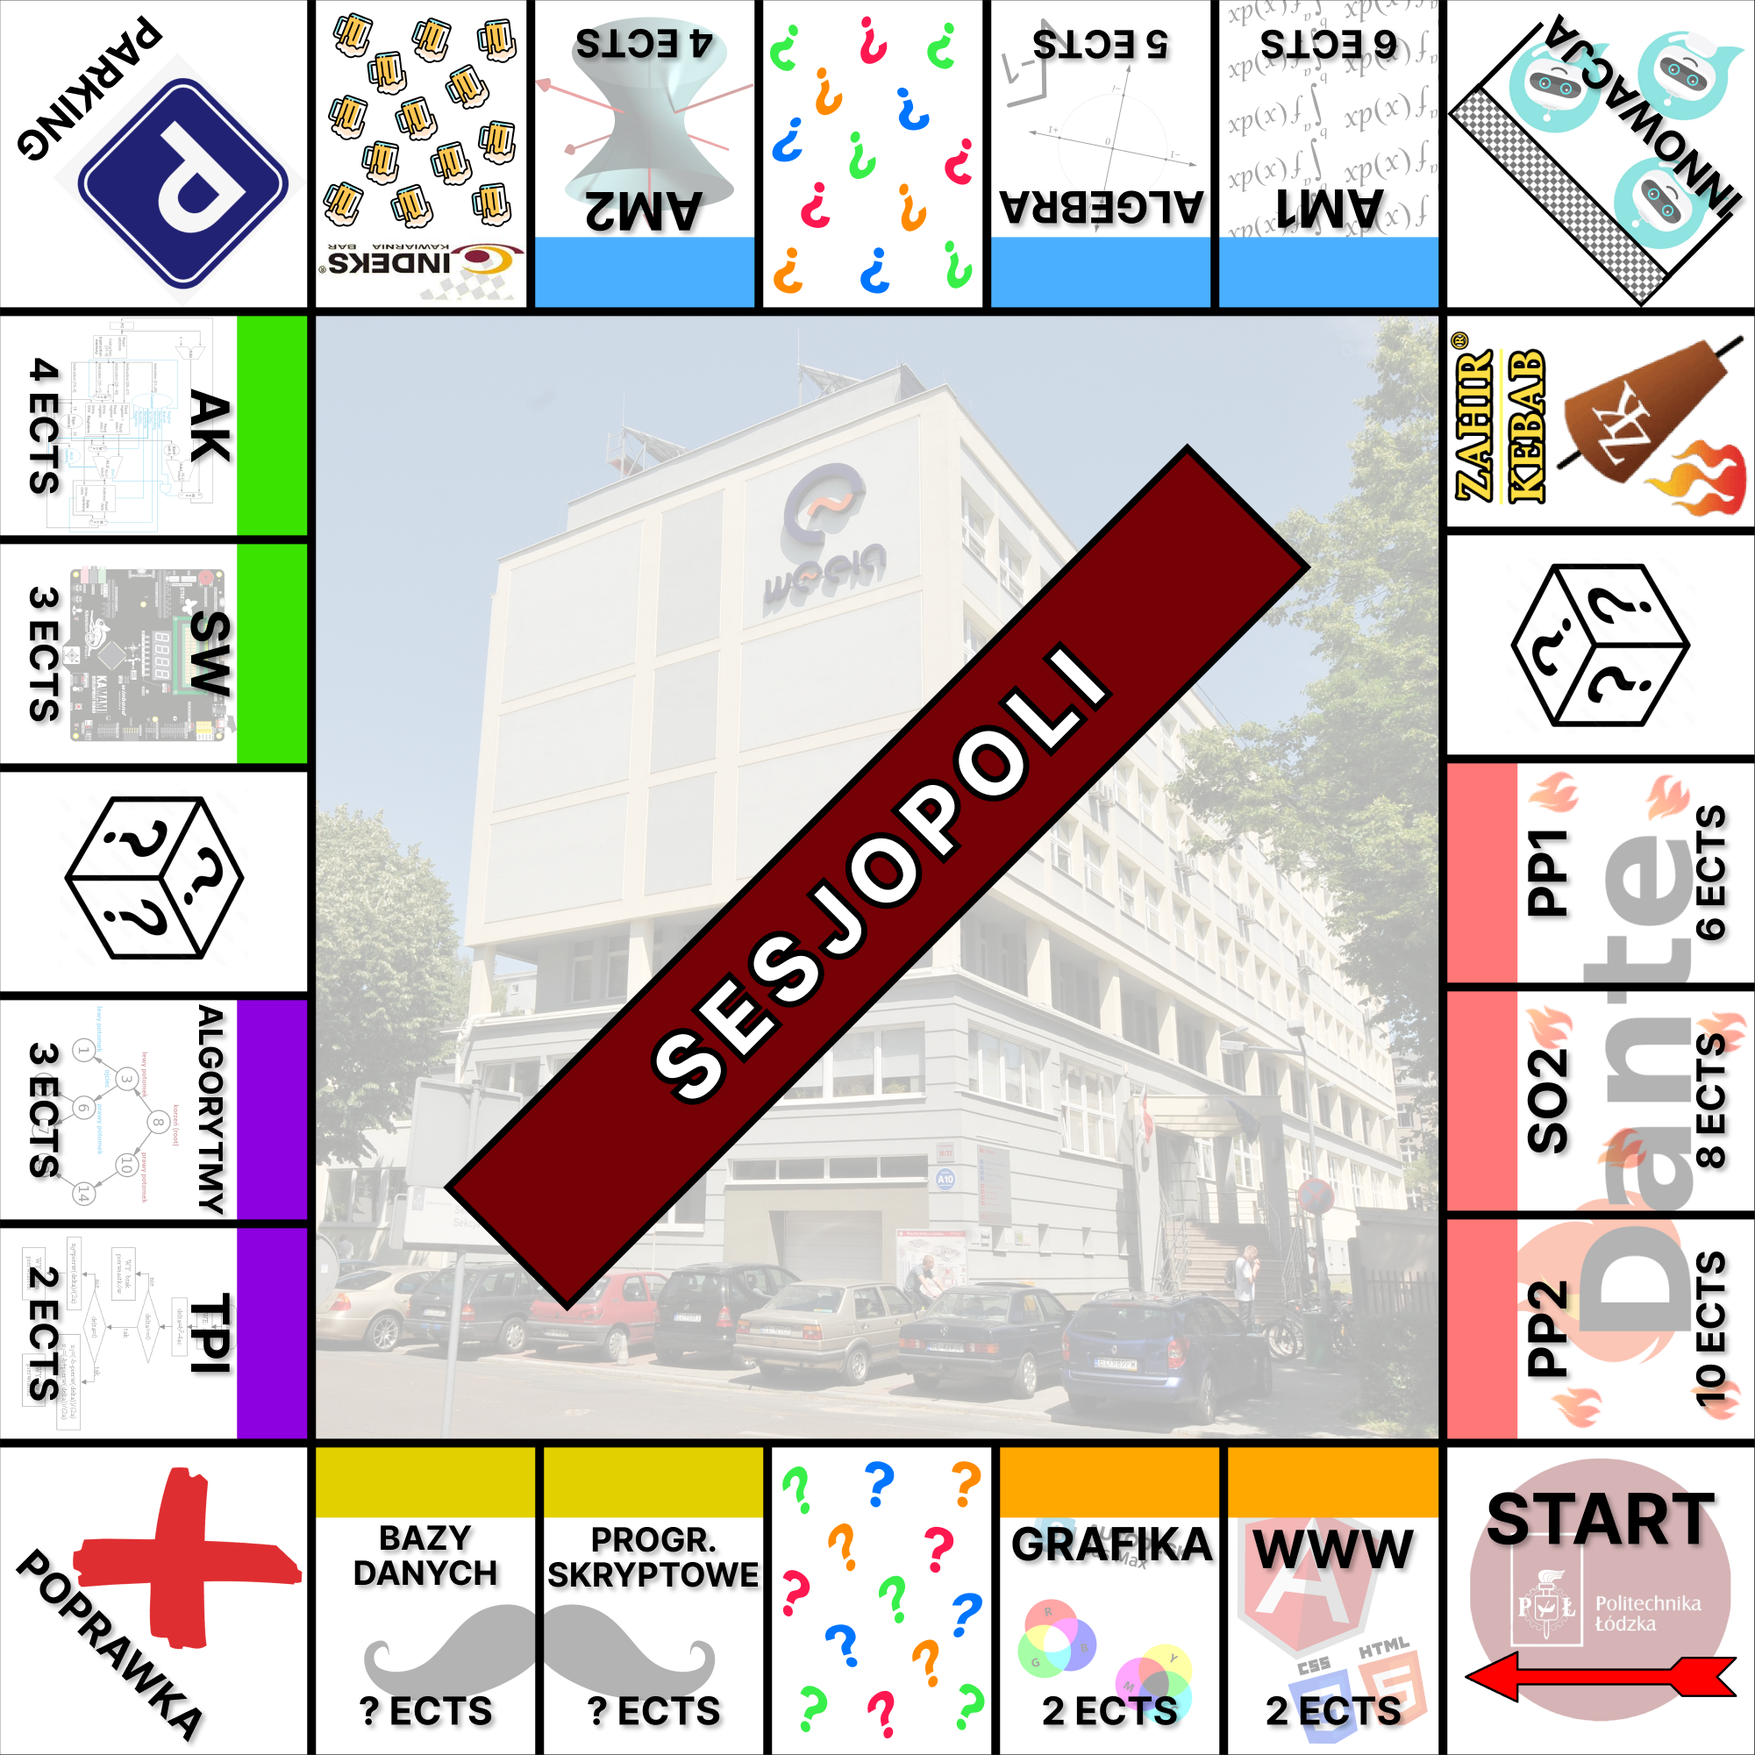
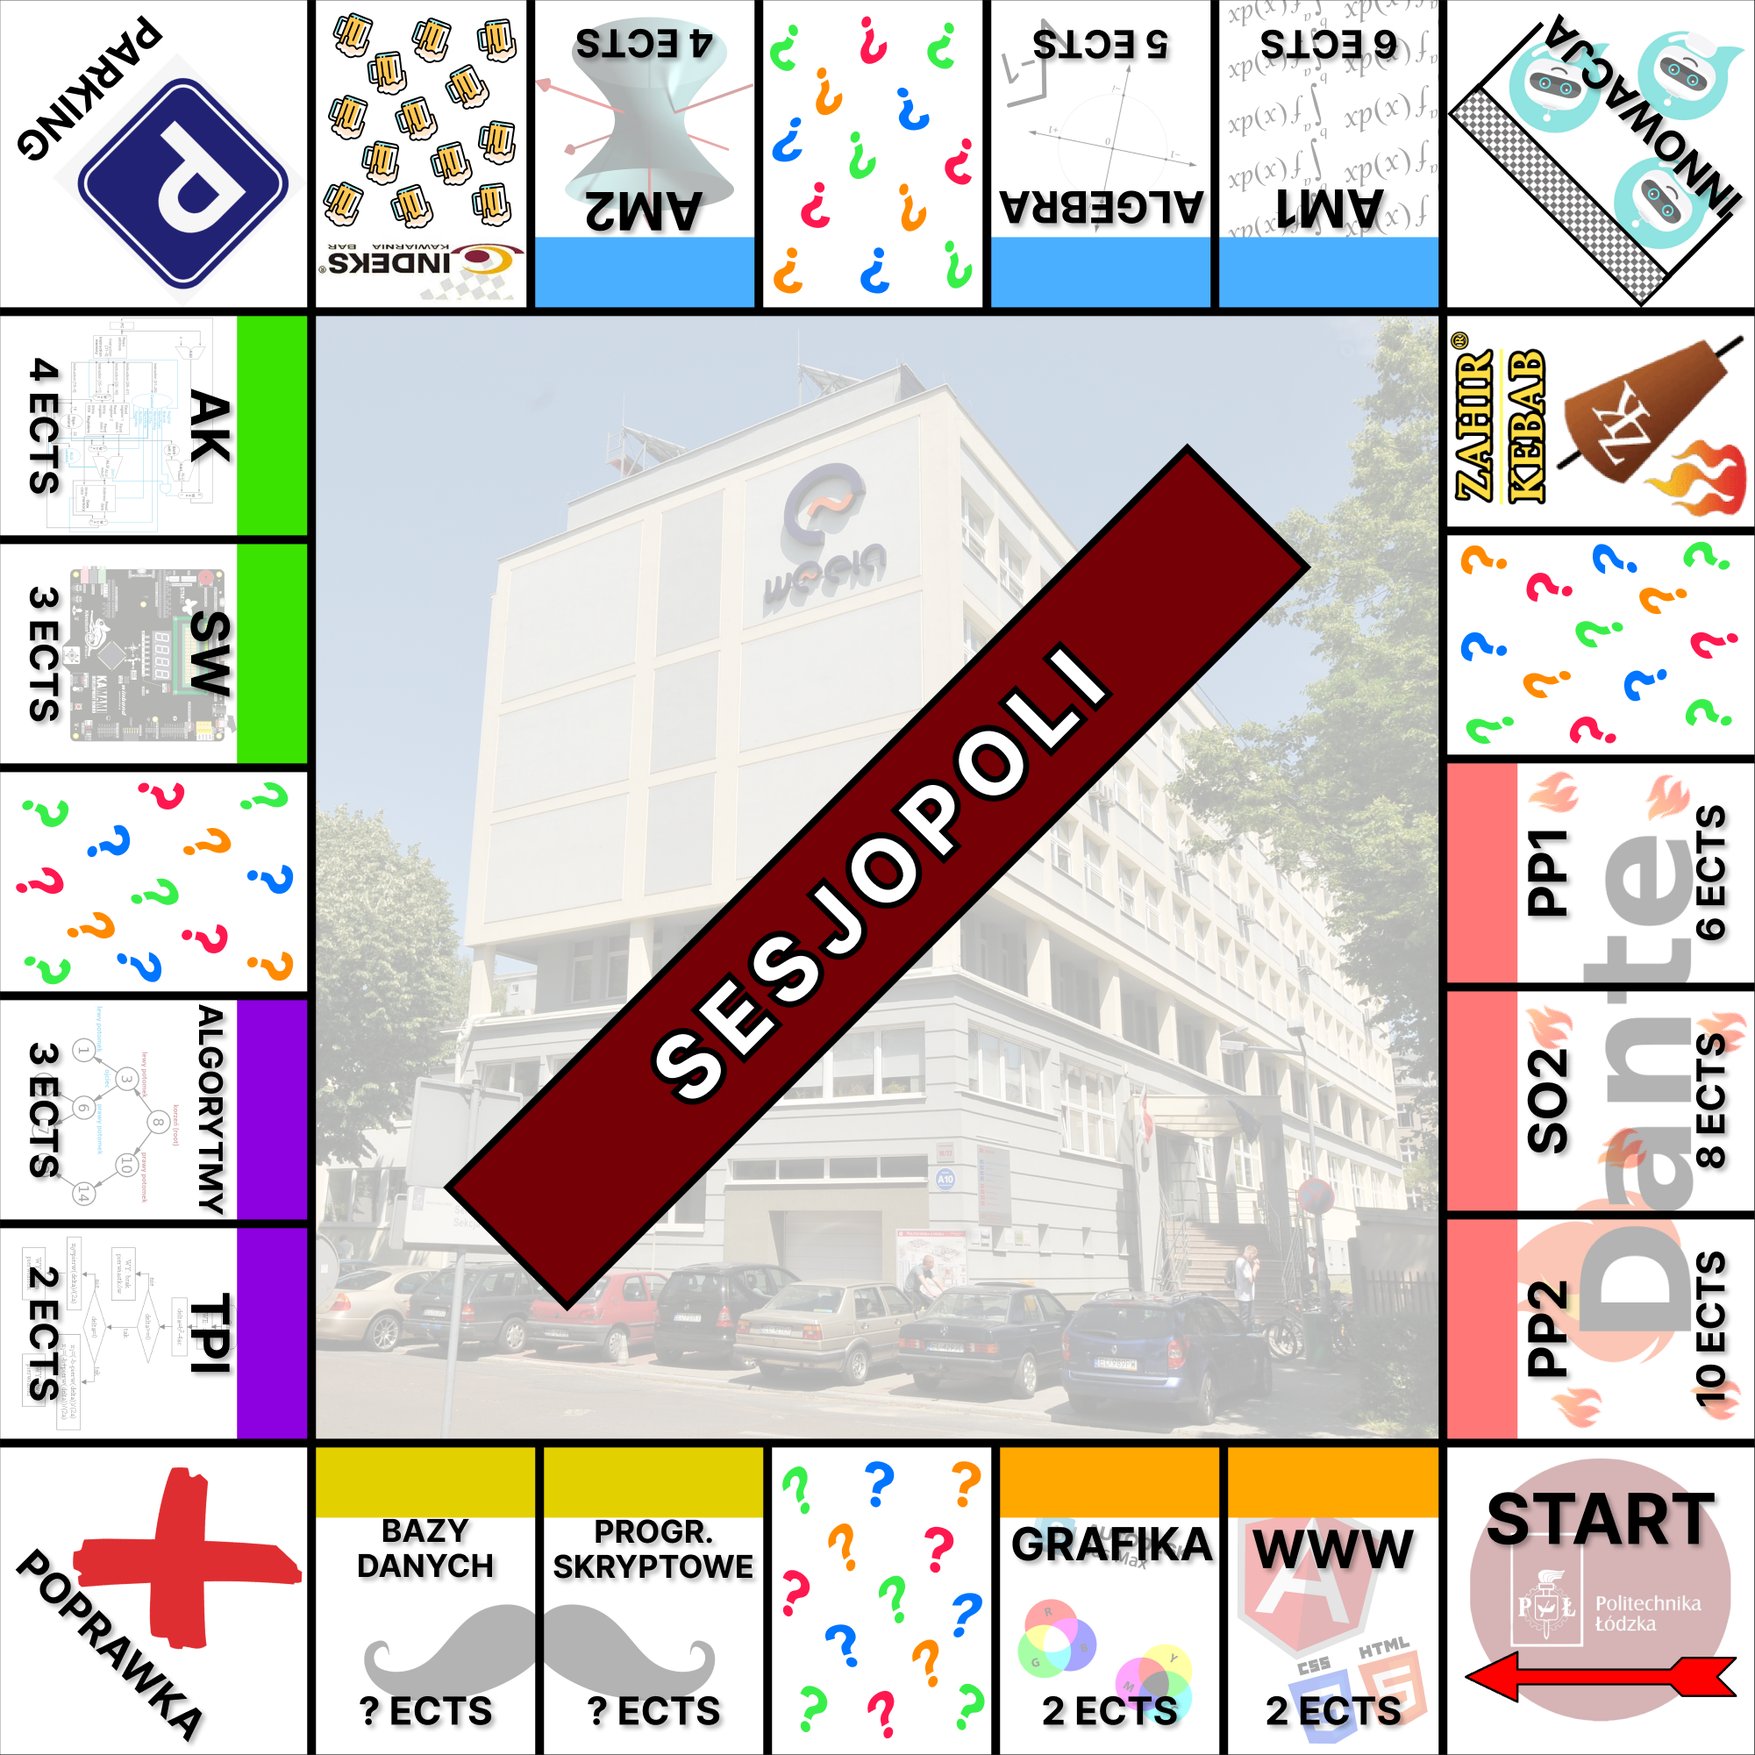
Więcej pytań do quizu, zmiana wyglądu i wyświetlania pionków

diff --git a/src/main/java/com/example/project_sesjopoli/Menu.java b/src/main/java/com/example/project_sesjopoli/Menu.java
@@ -1,6 +1,10 @@
 package com.example.project_sesjopoli;
 
+import com.example.project_sesjopoli.game_objects.Board;
+import com.example.project_sesjopoli.game_objects.Pawn;
 import com.example.project_sesjopoli.post_objects.PostObjectForSettingName;
+import com.google.gson.Gson;
+import com.google.gson.reflect.TypeToken;
 import javafx.event.ActionEvent;
 import javafx.event.EventHandler;
 import javafx.fxml.FXMLLoader;
@@ -15,7 +19,14 @@ import javafx.scene.text.FontWeight;
 import javafx.stage.Stage;
 import org.springframework.web.client.RestTemplate;
 
+import java.io.BufferedReader;
 import java.io.IOException;
+import java.io.InputStreamReader;
+import java.lang.reflect.Type;
+import java.net.HttpURLConnection;
+import java.net.URL;
+import java.util.ArrayList;
+import java.util.HashMap;
 
 import static com.example.project_sesjopoli.GameController.LINK;
 
@@ -26,17 +37,19 @@ public class Menu extends AnchorPane {
     private Button playButton;
     private Button exitButton;
     private TextField nameInput;
-    private final int playerId;
+    private GameController controller;
+    private Board board;
 
-    Menu(Stage primaryStage, Scene gameScene, int id) throws IOException {
+    Menu(Stage primaryStage, Scene gameScene, GameController controller, Board board) throws IOException {
         this.setStyle("-fx-background-color: rgb(121, 9, 15)");
+        this.controller = controller;
+        this.board = board;
         initInfo();
         initError();
         initNameInput();
         initPlayButton(primaryStage, gameScene);
         initExitButton(primaryStage);
         insertAllIntoPane();
-        this.playerId = id;
     }
 
     private void insertAllIntoPane() {
@@ -71,6 +84,24 @@ public class Menu extends AnchorPane {
                 error.setText("Nie wpisałeś imienia !!!");
             }
             else{
+                try {
+                    String endpointUrl = LINK + "/getplayerid";
+                    URL url = new URL(endpointUrl);
+                    HttpURLConnection connection = (HttpURLConnection) url.openConnection();
+                    connection.setRequestMethod("GET");
+                    BufferedReader reader = new BufferedReader(new InputStreamReader(connection.getInputStream()));
+                    Type collectionType = new TypeToken<Integer>() {
+                    }.getType();
+                    Gson gson = new Gson();
+                    int playerId = gson.fromJson(reader, collectionType);
+                    controller.setPlayerId(playerId);
+                    controller.initThreads();
+                } catch (Exception ex) {
+                    ex.printStackTrace();
+                    System.out.println(ex.getMessage());
+                    controller.setPlayerId(-1);
+                }
+                controller.getSideScreen().sendPawnInfo(controller, board.getPawns().get(controller.getPlayerId() - 1));
                 sendNameToServer();
                 primaryStage.setScene(gameScene);
             }
@@ -107,7 +138,7 @@ public class Menu extends AnchorPane {
     }
     private void sendNameToServer(){
         RestTemplate restTemplate = new RestTemplate();
-        PostObjectForSettingName dataRequest = new PostObjectForSettingName(playerId,nameInput.getText());
+        PostObjectForSettingName dataRequest = new PostObjectForSettingName(controller.getPlayerId() - 1,nameInput.getText());
         String responseEntity = restTemplate.postForObject(LINK + "/name", dataRequest, String.class);
     }
 }

diff --git a/src/main/java/com/example/project_sesjopoli/GameController.java b/src/main/java/com/example/project_sesjopoli/GameController.java
@@ -20,6 +20,9 @@ import java.util.ArrayList;
 import java.util.HashMap;
 import java.util.Random;
 import java.util.Collections;
+import java.util.concurrent.Executors;
+import java.util.concurrent.ScheduledExecutorService;
+import java.util.concurrent.TimeUnit;
 
 public class GameController {
 
@@ -32,24 +35,36 @@ public class GameController {
     private HashMap<Integer,House> positionsWithHouses;
 
     GameController(SmartGroup boardGroup, Board board) {
-        try {
-            String endpointUrl = LINK + "/getplayerid";
-            URL url = new URL(endpointUrl);
-            HttpURLConnection connection = (HttpURLConnection) url.openConnection();
-            connection.setRequestMethod("GET");
-            BufferedReader reader = new BufferedReader(new InputStreamReader(connection.getInputStream()));
-            Type collectionType = new TypeToken<Integer>() {
-            }.getType();
-            Gson gson = new Gson();
-            playerId = gson.fromJson(reader, collectionType);
             this.board = board;
             this.boardGroup = boardGroup;
             this.positionsWithHouses = new HashMap<>();
-        } catch (Exception ex) {
-            ex.printStackTrace();
-            System.out.println(ex.getMessage());
-            playerId = -1;
-        }
+    }
+
+    public void drawPawns(Board board){
+        Platform.runLater(() -> {
+            for (int i = 0; i < board.getPawns().size(); ++i){
+                Field actualField = board.getFields().get(board.getPawns().get(i).getPosition());
+                Point2D cords = actualField.getPlace(board.getPawns().get(i).getPlayerId());
+                board.getPawns().get(i).setTranslateX(cords.getX());
+                board.getPawns().get(i).setTranslateY(cords.getY());
+            }
+        });
+    }
+
+    void initThreads() {
+        ScheduledExecutorService executorService = Executors.newScheduledThreadPool(2);
+
+        executorService.scheduleAtFixedRate(() -> {
+            handleGameState(sideScreen);
+        }, 0, 200, TimeUnit.MILLISECONDS);
+
+        executorService.scheduleAtFixedRate(() -> {
+            drawPawns(board);
+        }, 0, 50, TimeUnit.MILLISECONDS);
+    }
+
+    public void setPlayerId(int playerId) {
+        this.playerId = playerId;
     }
 
     public int getPlayerId() {
@@ -76,6 +91,7 @@ public class GameController {
                     hideOrShowButtons(current.whoseTurn, s);
                     movePawns(current.playerPositions);
                     buildHouse(current.positionOwners);
+                    setPawnsVisible(current.playerId);
                     updateMoneyPanel(current.money, current.names);
                     if (current.playerLostFlags.get(playerId - 1)){
                         sideScreen.displayLooserInfo();
@@ -187,9 +203,20 @@ public class GameController {
             }
         });
     }
+    private void setPawnsVisible(int numberOfPlayers) {
+        Platform.runLater(() -> {
+            for(int i=0;i<numberOfPlayers;++i){
+                board.getPawns().get(i).setVisible(true);
+            }
+        });
+    }
 
     public void setSideScreen(SideScreen sideScreen) {
         this.sideScreen = sideScreen;
+    }
+
+    public SideScreen getSideScreen() {
+        return sideScreen;
     }
 
     public HashMap<Integer, House> getPositionsWithHouses() {

diff --git a/src/main/java/com/example/project_sesjopoli/Game.java b/src/main/java/com/example/project_sesjopoli/Game.java
@@ -68,11 +68,11 @@ public class Game extends Application {
         group.rotateByX(DEFAULT_BOARD_ANGLE);
     }
 
-    void initPrimaryStage(Stage primaryStage, Scene scene, int playerId){
+    void initPrimaryStage(Stage primaryStage, Scene scene){
         primaryStage.setOnCloseRequest(event -> {
             System.exit(0);
         });
-        primaryStage.setTitle("SESJOPOLI - " + playerId);
+        primaryStage.setTitle("SESJOPOLI");
         primaryStage.setScene(scene);
         primaryStage.show();
         primaryStage.setResizable(false);
@@ -87,18 +87,6 @@ public class Game extends Application {
     SubScene initSideScene(SideScreen sideScreen) {
         SubScene sideScene = new SubScene(sideScreen, SIDE_SCENE_WIDTH, HEIGHT);
         return sideScene;
-    }
-
-    void initThreads(GameController controller, SideScreen sideScreen, ArrayList<Pawn> pawns, Board board) {
-        ScheduledExecutorService executorService = Executors.newScheduledThreadPool(2);
-
-        executorService.scheduleAtFixedRate(() -> {
-            controller.handleGameState(sideScreen);
-        }, 0, 200, TimeUnit.MILLISECONDS);
-
-        executorService.scheduleAtFixedRate(() -> {
-            drawPawns(board);
-        }, 0, 50, TimeUnit.MILLISECONDS);
     }
 
     void setBoardImage(Rectangle board){
@@ -129,17 +117,6 @@ public class Game extends Application {
         return pawns;
     }
 
-    public void drawPawns(Board board){
-        Platform.runLater(() -> {
-            for (int i = 0; i < board.getPawns().size(); ++i){
-                Field actualField = board.getFields().get(board.getPawns().get(i).getPosition());
-                Point2D cords = actualField.getPlace(board.getPawns().get(i).getPlayerId());
-                board.getPawns().get(i).setTranslateX(cords.getX());
-                board.getPawns().get(i).setTranslateY(cords.getY());
-            }
-        });
-    }
-
     @Override
     public void start(Stage primaryStage) throws Exception {
 
@@ -154,7 +131,7 @@ public class Game extends Application {
         Camera camera = new CameraFactory().initCamera();
 
         BorderPane wholeScreen = new BorderPane();
-        SideScreen sideScreen = new SideScreen(controller, pawns.get(controller.getPlayerId() - 1), board);
+        SideScreen sideScreen = new SideScreen(controller, board);
         SubScene mainScene = initMainScene(camera, boardGroup);
         SubScene sideScene = initSideScene(sideScreen);
 
@@ -166,14 +143,12 @@ public class Game extends Application {
         wholeScreen.setLeft(mainScene);
         wholeScreen.setRight(sideScene);
 
-        initThreads(controller, sideScreen, pawns, board);
-
         Scene gameScene = new Scene(wholeScreen, WIDTH, HEIGHT);
 
-        Menu menuLayout = new Menu(primaryStage, gameScene, controller.getPlayerId() - 1);
+        Menu menuLayout = new Menu(primaryStage, gameScene, controller, board);
         Scene menuScene = new Scene(menuLayout, WIDTH, HEIGHT);
 
-        initPrimaryStage(primaryStage, menuScene, controller.getPlayerId());
+        initPrimaryStage(primaryStage, menuScene);
     }
 
     public static void main(String[] args) {

diff --git a/src/main/java/com/example/project_sesjopoli/SideScreen.java b/src/main/java/com/example/project_sesjopoli/SideScreen.java
@@ -45,12 +45,11 @@ public class SideScreen extends AnchorPane {
     ArrayList<Button> quizButtons;
     int lastDicedPosition;
 
-    SideScreen(GameController controller, Pawn pawn, Board board){
+    SideScreen(GameController controller, Board board){
         super();
         this.board=board;
         this.moneyInfoLabels =new ArrayList<>();
         initLabelsAndButtons();
-        assignEventHandlers(controller, pawn, board);
 
         this.getChildren().add(isYourTurnLabel);
         this.getChildren().add(infoLabel);
@@ -77,13 +76,17 @@ public class SideScreen extends AnchorPane {
         });
     }
 
+    public void sendPawnInfo(GameController controller, Pawn pawn){
+        assignEventHandlers(controller, pawn, board);
+    }
+
     private void assignEventHandlers(GameController controller, Pawn pawn, Board board) {
         EventHandler<ActionEvent> endTurnEvent = e -> {
             controller.endTurnOnServer();
         };
         EventHandler<ActionEvent> movePawnEvent = e -> {
 
-                int random = /*new Random().nextInt(6) + 1*/ 8;
+                int random = /*new Random().nextInt(6) + 1*/ 3;
                 int randomPosition = (pawn.getPosition()+random)%24;
                 lastDicedPosition = randomPosition;
                 infoLabel.setText("Wylosowano: " + random + "\nPole: " + board.getFields().get(randomPosition).getName());
@@ -231,7 +234,6 @@ public class SideScreen extends AnchorPane {
         Platform.runLater(() -> {
             moneyPane.add(looseInfo, 0, 1);
         });
-
     }
 
     public void displayWinnerInfo(){
@@ -267,7 +269,7 @@ public class SideScreen extends AnchorPane {
         quizPane.setBackground(Background.fill(Color.WHITE));
         quizPane.setVisible(false);
         this.getChildren().add(quizPane);
-        quizPane.setLayoutX(100);
+        quizPane.setLayoutX(5);
         quizPane.setLayoutY(400);
     }
 

diff --git a/src/main/java/com/example/project_sesjopoli/game_objects/Pawn.java b/src/main/java/com/example/project_sesjopoli/game_objects/Pawn.java
@@ -1,11 +1,19 @@
 package com.example.project_sesjopoli.game_objects;
 
+import javafx.scene.Group;
 import javafx.scene.paint.Color;
 import javafx.scene.paint.PhongMaterial;
 import javafx.scene.shape.Box;
+import javafx.scene.shape.Cylinder;
+import javafx.scene.shape.Sphere;
+import javafx.scene.transform.Rotate;
+
+import java.util.ArrayList;
+import java.util.Arrays;
+import java.util.List;
 
 
-public class Pawn extends Box {
+public class Pawn extends Group {
     public static final double HEIGHT_MULTIPLIER = 0.5;
     public static final int PAWN_WIDTH = 60;
     public static final int PAWN_DEPTH = 60;
@@ -16,13 +24,23 @@ public class Pawn extends Box {
     private int position;
 
     public Pawn(int id) {
-        super(PAWN_WIDTH, PAWN_DEPTH, PAWN_HEIGHT);
-        this.setTranslateZ(-PAWN_HEIGHT * HEIGHT_MULTIPLIER);
-        PhongMaterial material = new PhongMaterial();
-        material.setDiffuseColor(Color.RED);
-        this.setMaterial(material);
         playerId = id;
         position = START_POSITION;
+        List<Color> colors = new ArrayList<>(Arrays.asList(Color.YELLOW, Color.GREEN, Color.BLUE, Color.ORANGE));
+        Cylinder pawnBody = new Cylinder(PAWN_WIDTH / 2.0,PAWN_HEIGHT);
+        Sphere pawnHead = new Sphere(PAWN_WIDTH / 2.0);
+        pawnHead.setTranslateZ(-PAWN_HEIGHT+30);
+        Rotate rotateX = new Rotate(90, Rotate.X_AXIS);
+        pawnBody.getTransforms().addAll(rotateX);
+
+        this.setTranslateZ(-PAWN_HEIGHT * HEIGHT_MULTIPLIER);
+        PhongMaterial material = new PhongMaterial();
+        material.setDiffuseColor(colors.get(playerId-1));
+        pawnBody.setMaterial(material);
+        pawnHead.setMaterial(material);
+        this.getChildren().add(pawnBody);
+        this.getChildren().add(pawnHead);
+        this.setVisible(false);
     }
 
     public int getPosition() {

diff --git a/src/main/java/com/example/project_sesjopoli/game_objects/BoardBuilder.java b/src/main/java/com/example/project_sesjopoli/game_objects/BoardBuilder.java
@@ -20,7 +20,7 @@ public class BoardBuilder {
 
         fields.add(new SubjectField(30,1350, new Point2D(310,1450), "TPI",board));
         fields.add(new SubjectField(30,1090, new Point2D(310,1190), "ALGORYTMY",board));
-        fields.add(new Field(30,830, "MYSTERY BOX",board));
+        fields.add(new QuizField(30,830, "QUIZ",board));
         fields.add(new SubjectField(30,570, new Point2D(310,670), "SW",board));
         fields.add(new SubjectField(30,310, new Point2D(310,410), "AK",board));
 
@@ -35,7 +35,7 @@ public class BoardBuilder {
         fields.add(new Field(1650,-40, "INNOWACJA",board));
 
         fields.add(new SubjectField(1730,260, new Point2D(1690,560), "ZAHIR",board));
-        fields.add(new Field(1730,520, "MYSTERY BOX",board));
+        fields.add(new QuizField(1730,520, "QUIZ",board));
         fields.add(new SubjectField(1730,780, new Point2D(1690,1080),"PP1",board));
         fields.add(new SubjectField(1730,1040, new Point2D(1690,1340), "SO2",board));
         fields.add(new SubjectField(1730,1300, new Point2D(1690,1600), "PP2",board));
